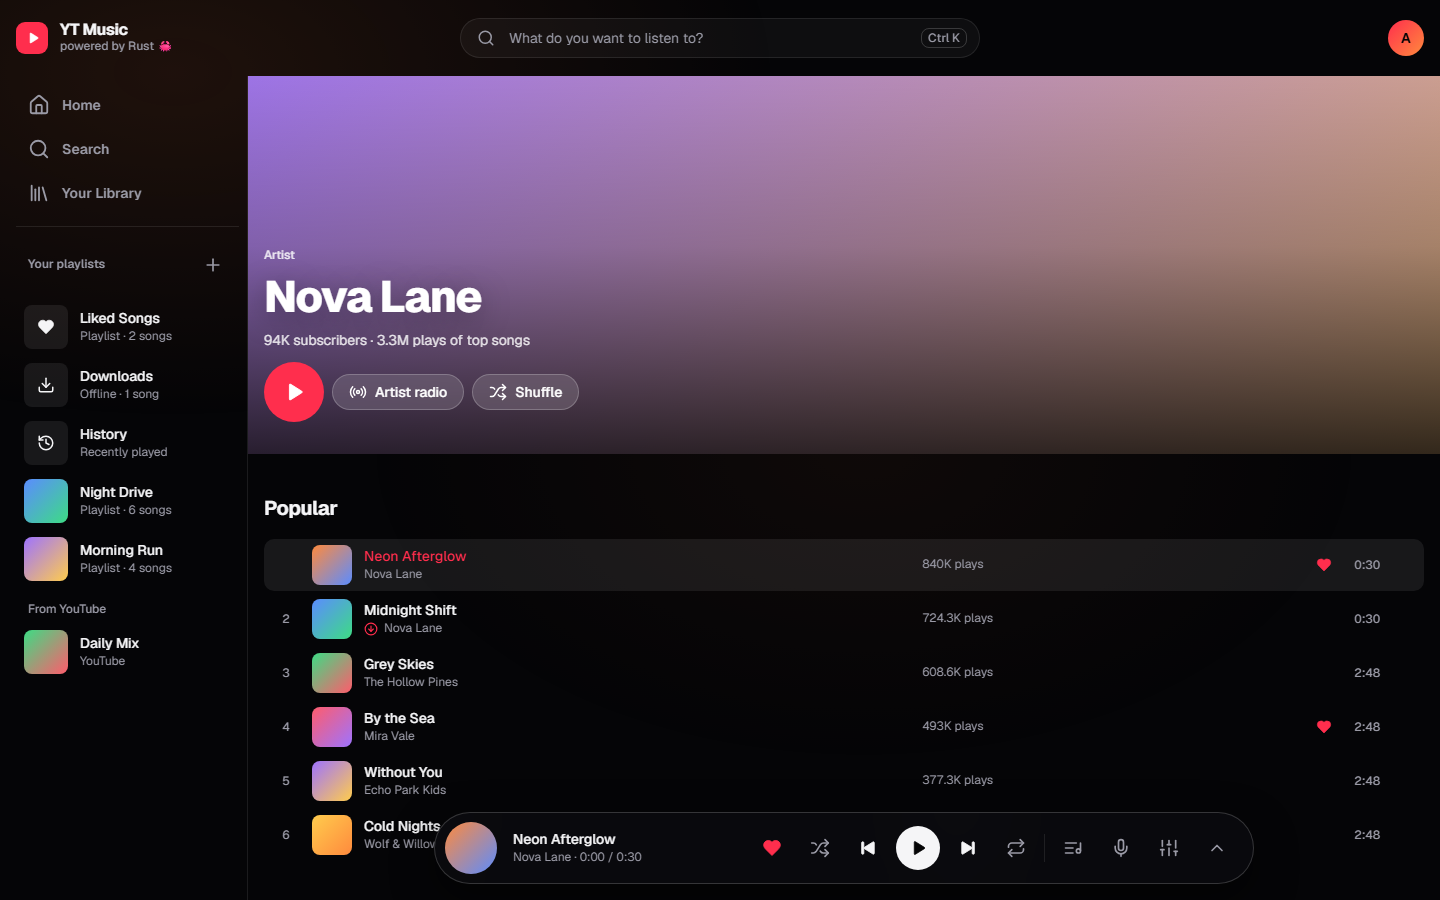
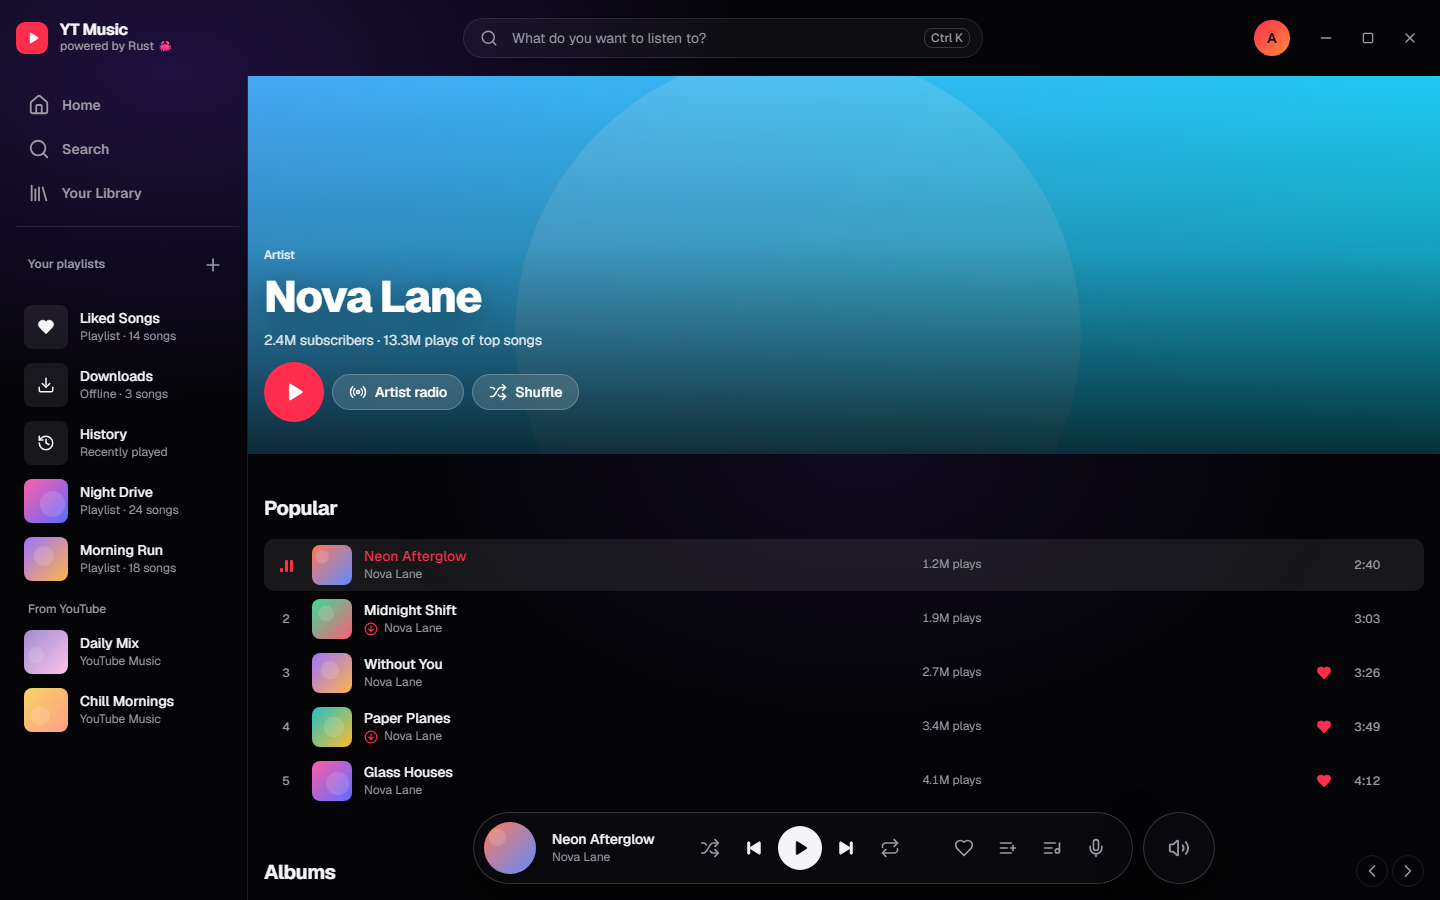
README: fresh screenshots, 1.1.0 features, desktop web player, Windows and Android only for 1.1.0
Screenshots are taken headlessly from the real UI with made-up artists and covers.

diff --git a/README.ru.md b/README.ru.md
@@ -25,7 +25,7 @@
 ## Возможности
 
 **Прослушивание**
-- Главная для тебя: миксы из истории и лайков, быстрый выбор, чарт топ-треков, новые релизы, недавно прослушанное
+- Главная для тебя: твой микс и микс на каждого любимого исполнителя из истории и лайков; быстрый выбор, чарт топ-треков, новые релизы, недавно прослушанное
 - Поиск треков, альбомов, исполнителей и плейлистов с подсказками; страницы альбомов, исполнителей (с числом прослушиваний) и плейлистов
 - Только песни: клипы убраны из поиска, чартов, страниц исполнителей и радио
 - Плеер, который разворачивается из нижней панели на весь экран: большая обложка, управление, а рядом «Дальше» / «Текст»
@@ -34,11 +34,14 @@
 - Синхронизированные тексты (текущая строка подсвечивается, клик по строке — перемотка) из [LRCLIB](https://lrclib.net), запасной вариант — тексты YouTube Music
 - 10-полосный эквалайзер с пресетами
 - 18+ треки играют, когда ты вошёл (аккаунт с подтверждённым возрастом)
+- На Windows, macOS и Linux после входа музыка играет через веб-плеер самого YouTube Music: песни стартуют сразу и не обрываются посередине
 
 **Библиотека**
 - Боковая панель с библиотекой и плейлистами всегда под рукой
 - Лайки, свои плейлисты и история хранятся локально в SQLite
 - Вход через Google переносит лайки и плейлисты из YouTube; меню аккаунта на аватаре (синхронизация, смена аккаунта, выход)
+- Выбор нескольких песен или всех сразу на любой странице: играть следующими, добавить в плейлист, скачать или убрать
+- Лайки ставятся и снимаются и в твоём аккаунте YouTube Music
 - Офлайн-загрузки (высокое или обычное качество) в собственном зашифрованном формате `.ytmc`: играют только в YT Music
 
 **Приложение**
@@ -50,6 +53,8 @@
 ## Установка
 
 Скачай файл для своей платформы из [Releases](../../releases). В каждом релизе есть список изменений.
+
+> **Версия 1.1.0 вышла для Windows и Android.** Сборки для macOS, Linux и iPhone вернутся в одном из следующих релизов; до тех пор на macOS и Linux можно оставаться на [1.0.1](../../releases/tag/v1.0.1).
 
 | Платформа | Файл |
 |---|---|
@@ -94,7 +99,7 @@ cargo tauri build                  # установщик в target/release/bund
 Логика на Rust; веб-слой только рисует интерфейс и играет `<audio>`. Структуру файлов см. в [английском README](README.md#how-it-works).
 
 - **Метаданные** (поиск, альбомы, исполнители, чарты, радио, аккаунт) — из [rustypipe](https://codeberg.org/ThetaDev/rustypipe).
-- **Аудио на ПК:** каждый трек идёт через [yt-dlp](https://github.com/yt-dlp/yt-dlp), от имени твоего аккаунта, если ты вошёл, поэтому 18+ тоже играют. Одновременно максимум 3 процесса yt-dlp, один трек не резолвится дважды, ссылки кэшируются до истечения срока, а два следующих трека (и трек под курсором) готовятся заранее — переключение без ожидания.
+- **Аудио на ПК:** после входа песни играет веб-плеер самого YouTube Music в скрытом окне (`webplayer.rs`): наш интерфейс им управляет и показывает его состояние. Песни стартуют сразу, 18+ играют, а YouTube показывает свою рекламу, как на сайте. Гость, скачанные песни и запасной вариант (если сайт не запустил песню) играют через встроенный плеер ниже, а потоки достаёт [yt-dlp](https://github.com/yt-dlp/yt-dlp).
 - **Аудио на Android** (yt-dlp нет): прямой запрос InnerTube `player` клиентом visionOS соревнуется с rustypipe. Для 18+ приложение делает подписанный запрос и расшифровывает ссылку решателем самого yt-dlp ([yt-dlp/ejs](https://github.com/yt-dlp/ejs), Unlicense) в JS-движке WebView; разобранный плеер кэшируется на диск.
 - googlevideo не принимает открытые диапазоны, поэтому локальный прокси тянет данные кусками по 4 МБ и склеивает их в один поток. Перемотка работает, а ссылки на потоки не попадают в веб-слой.
 
@@ -103,6 +108,7 @@ cargo tauri build                  # установщик в target/release/bund
 ```sh
 cargo test                            # офлайн-тесты
 cargo test -- --ignored --nocapture   # живые тесты с реальным YouTube
+node tests/player.test.mjs            # переключение движков плеера (интерфейс, подставной бэкенд)
 ```
 
 ## Горячие клавиши

diff --git a/README.uk.md b/README.uk.md
@@ -25,7 +25,7 @@
 ## Можливості
 
 **Слухання**
-- Головна для тебе: мікси з твоєї історії та вподобань, швидкий вибір, чарт топ-треків, нові релізи, нещодавно прослухане
+- Головна для тебе: твій мікс і мікс на кожного улюбленого виконавця з твоєї історії та вподобань; швидкий вибір, чарт топ-треків, нові релізи, нещодавно прослухане
 - Пошук треків, альбомів, виконавців і плейлистів з підказками; сторінки альбомів, виконавців (з кількістю прослуховувань) і плейлистів
 - Лише пісні: кліпи прибрано з пошуку, чартів, сторінок виконавців і радіо
 - Плеєр, що розгортається з нижньої панелі на весь екран: велика обкладинка, керування, а поруч «Далі» / «Текст»
@@ -34,11 +34,14 @@
 - Синхронізовані тексти (поточний рядок підсвічується, клік по рядку — перемотка) з [LRCLIB](https://lrclib.net), запасний варіант — тексти YouTube Music
 - 10-смуговий еквалайзер із пресетами
 - 18+ треки грають, коли ти увійшов (акаунт із підтвердженим віком)
+- На Windows, macOS і Linux після входу музика грає через вебплеєр самого YouTube Music: пісні стартують одразу й не обриваються посередині
 
 **Бібліотека**
 - Бічна панель із бібліотекою й плейлистами завжди під рукою
 - Вподобане, власні плейлисти й історія зберігаються локально в SQLite
 - Вхід через Google переносить вподобане й плейлисти з YouTube; меню акаунта на аватарі (синхронізація, зміна акаунта, вихід)
+- Вибір кількох пісень або всіх одразу на будь-якій сторінці: грати далі, додати в плейлист, завантажити чи прибрати
+- Лайки ставляться й знімаються і у твоєму акаунті YouTube Music
 - Офлайн-завантаження (висока або звичайна якість) у власному зашифрованому форматі `.ytmc`: грають лише в YT Music
 
 **Застосунок**
@@ -50,6 +53,8 @@
 ## Встановлення
 
 Завантаж файл для своєї платформи з [Releases](../../releases). У кожному релізі є список змін.
+
+> **Версія 1.1.0 вийшла для Windows та Android.** Збірки для macOS, Linux та iPhone повернуться в одному з наступних релізів; до того на macOS і Linux можна лишатися на [1.0.1](../../releases/tag/v1.0.1).
 
 | Платформа | Файл |
 |---|---|
@@ -94,7 +99,7 @@ cargo tauri build                  # інсталятор у target/release/bund
 Логіка на Rust; вебшар лише малює інтерфейс і грає `<audio>`. Структуру файлів див. в [англійському README](README.md#how-it-works).
 
 - **Метадані** (пошук, альбоми, виконавці, чарти, радіо, акаунт) — з [rustypipe](https://codeberg.org/ThetaDev/rustypipe).
-- **Аудіо на ПК:** кожен трек іде через [yt-dlp](https://github.com/yt-dlp/yt-dlp), від імені твого акаунта, якщо ти увійшов, тож 18+ теж грають. Одночасно максимум 3 процеси yt-dlp, той самий трек не резолвиться двічі, посилання кешуються до закінчення строку дії, а два наступні треки (і трек під курсором) готуються заздалегідь — перемикання без очікування.
+- **Аудіо на ПК:** після входу пісні грає вебплеєр самого YouTube Music у прихованому вікні (`webplayer.rs`): наш інтерфейс ним керує й показує його стан. Пісні стартують одразу, 18+ грають, а YouTube показує свою рекламу, як на сайті. Гість, завантажені пісні й запасний варіант (якщо сайт не запустив пісню) грають через вбудований плеєр нижче, а потоки дістає [yt-dlp](https://github.com/yt-dlp/yt-dlp).
 - **Аудіо на Android** (yt-dlp немає): прямий запит InnerTube `player` клієнтом visionOS змагається з rustypipe. Для 18+ застосунок робить підписаний запит і розшифровує посилання розв'язувачем самого yt-dlp ([yt-dlp/ejs](https://github.com/yt-dlp/ejs), Unlicense) у JS-рушії WebView; розібраний плеєр кешується на диск.
 - googlevideo не приймає відкриті діапазони, тож локальний проксі тягне дані шматками по 4 МБ і склеює їх в один потік. Перемотка працює, а посилання на потоки не потрапляють у вебшар.
 
@@ -103,6 +108,7 @@ cargo tauri build                  # інсталятор у target/release/bund
 ```sh
 cargo test                            # офлайн-тести
 cargo test -- --ignored --nocapture   # живі тести з реальним YouTube
+node tests/player.test.mjs            # перемикання рушіїв плеєра (інтерфейс, підставний бекенд)
 ```
 
 ## Гарячі клавіші

diff --git a/README.md b/README.md
@@ -25,7 +25,7 @@ A fast, unofficial YouTube Music client for Windows, macOS, Linux and Android, w
 ## Features
 
 **Listening**
-- Home made for you: mixes from your history and likes, quick picks, top songs chart, new releases, recently played
+- Home made for you: your mix and a mix for each favourite artist, from your history and likes; quick picks, top songs chart, new releases, recently played
 - Search songs, albums, artists and playlists with suggestions; album, artist (with play counts) and playlist pages
 - Songs only: music videos are left out of search, charts, artist pages and radio
 - A player that expands from the bottom bar to full screen: big cover, controls, and *Up next* / *Lyrics* right beside it
@@ -34,11 +34,14 @@ A fast, unofficial YouTube Music client for Windows, macOS, Linux and Android, w
 - Time-synced lyrics (the current line lights up, click a line to jump), from [LRCLIB](https://lrclib.net) with YouTube Music lyrics as fallback
 - 10-band equalizer with presets
 - 18+ songs play when you're signed in (age-verified account)
+- On Windows, macOS and Linux, signed-in playback goes through YouTube Music's own web player: songs start at once and don't stop half-way
 
 **Library**
 - Sidebar with your library and playlists, always at hand
 - Liked songs, your own playlists and history, stored locally in SQLite
 - Sign in with Google to bring your YouTube likes and playlists; account menu on your avatar (sync, switch account, sign out)
+- Select several songs, or all of them, on any page: play next, add to a playlist, download or remove at once
+- Likes and unlikes reach your YouTube Music account
 - Offline downloads (high or standard quality), stored encrypted in the app's own `.ytmc` format, so they play only inside YT Music
 
 **App**
@@ -50,6 +53,8 @@ A fast, unofficial YouTube Music client for Windows, macOS, Linux and Android, w
 ## Install
 
 Grab the file for your platform from [Releases](../../releases). Each release lists what changed.
+
+> **1.1.0 is out for Windows and Android.** The macOS, Linux and iPhone builds come back in a later release; until then macOS and Linux users can keep [1.0.1](../../releases/tag/v1.0.1).
 
 | Platform | File |
 |---|---|
@@ -110,12 +115,13 @@ src-tauri/src/
   recommend.rs      "made for you" mixes from your history and likes
   color.rs          dominant cover colour for tints
   auth.rs / account.rs   "Sign in with Google", account name and avatar
+  webplayer.rs      desktop: YouTube Music's web player in a hidden window, driven from Rust
   media.rs          Windows media overlay (system media controls)
   db.rs             SQLite: likes, playlists, history, downloads, cache, settings
 ```
 
 - **Metadata** (search, albums, artists, charts, radio, account) comes from [rustypipe](https://codeberg.org/ThetaDev/rustypipe).
-- **Audio on desktop:** every song goes through [yt-dlp](https://github.com/yt-dlp/yt-dlp), signed in with your session when you're logged in, so 18+ songs play too. At most 3 yt-dlp processes run at once, the same song is never resolved twice in parallel, URLs are cached until they expire, and the next two songs (and the one under your pointer) are resolved in advance, so skipping doesn't wait.
+- **Audio on desktop:** once you're signed in, songs play through YouTube Music's own web player in a hidden window (`webplayer.rs`): our interface drives it and shows its state. Songs start at once, 18+ songs play, and YouTube shows its ads as on the site. Guests, downloaded songs and the fallback (if the site doesn't start a song) use the built-in player below, with [yt-dlp](https://github.com/yt-dlp/yt-dlp) resolving the streams.
 - **Audio on Android** (no yt-dlp): a direct InnerTube `player` request with the visionOS client races rustypipe. For 18+ songs the app makes a signed request and solves the stream URL challenges with yt-dlp's own solver ([yt-dlp/ejs](https://github.com/yt-dlp/ejs), Unlicense) running in the webview's JS engine; the parsed player is cached on disk.
 - googlevideo rejects open-ended ranges, so the local proxy fetches upstream in bounded 4 MB chunks and stitches them into one stream. Seeking works, and stream URLs never reach the web layer.
 
@@ -124,6 +130,7 @@ src-tauri/src/
 ```sh
 cargo test                            # offline tests
 cargo test -- --ignored --nocapture   # live tests against real YouTube
+node tests/player.test.mjs            # player engine switching (UI, fake backend)
 ```
 
 ## Keyboard shortcuts
